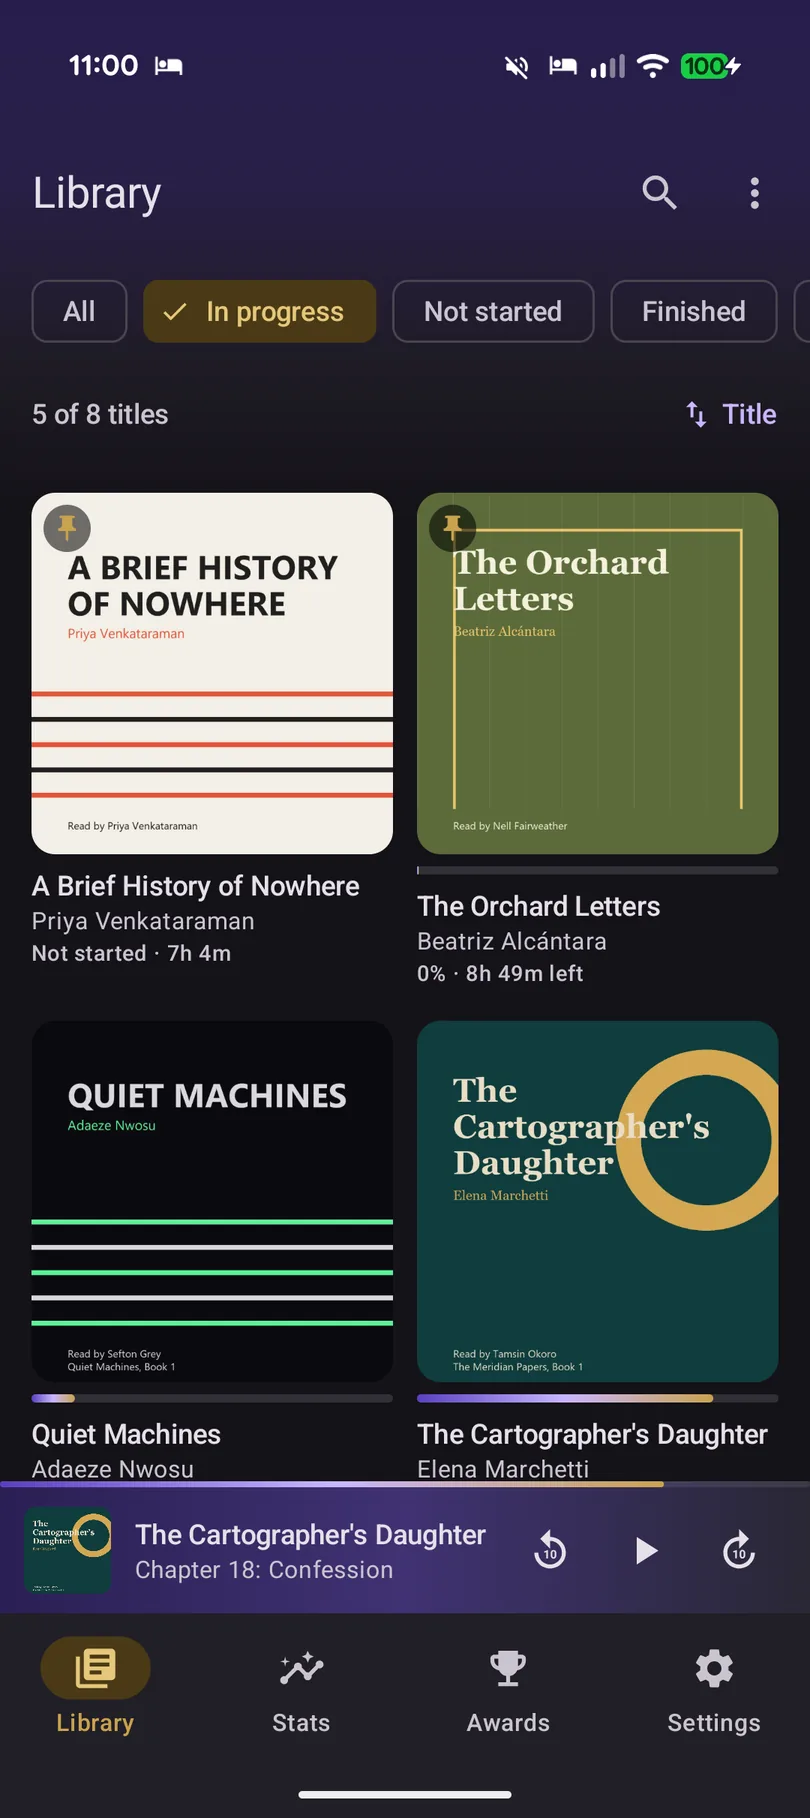
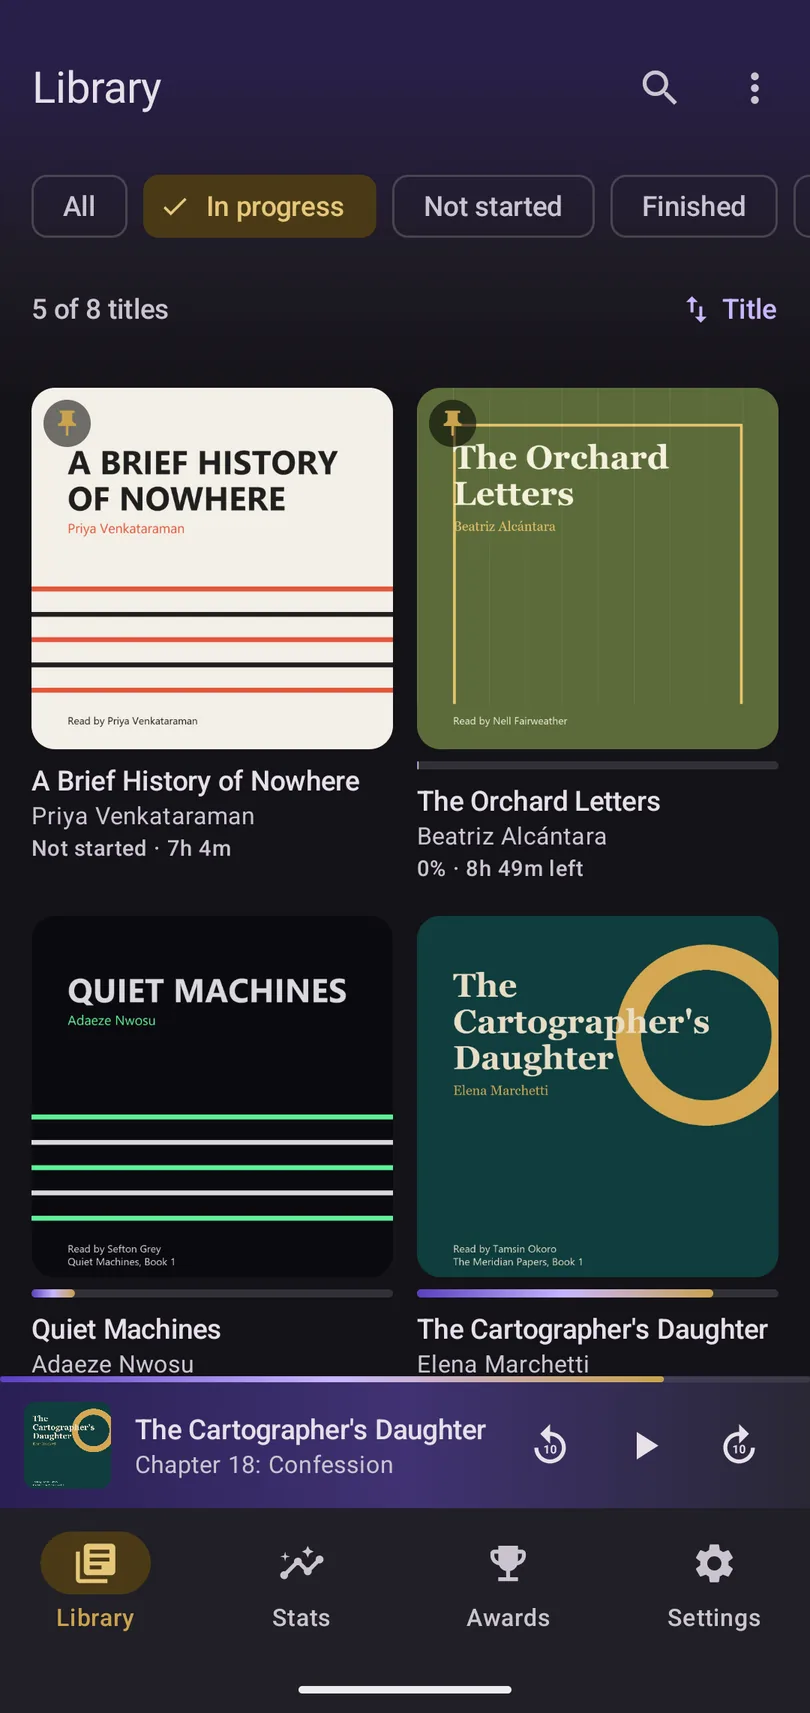
Crop the Android status bar off the screenshots

diff --git a/resources/views/home.blade.php b/resources/views/home.blade.php
@@ -16,7 +16,7 @@
         </div>
 
         <div class="phone">
-            <img src="{{ asset('img/screens/player.webp') }}" srcset="{{ asset('img/screens/player.webp') }} 1x, {{ asset('img/screens/player@2x.webp') }} 2x" width="540" height="1212" alt="Appollo playing The Cartographer's Daughter: chapter list, progress bar, 10 second skips, speed, sleep timer, bookmarks and transcript controls" fetchpriority="high">
+            <img src="{{ asset('img/screens/player.webp') }}" srcset="{{ asset('img/screens/player.webp') }} 1x, {{ asset('img/screens/player@2x.webp') }} 2x" width="540" height="1142" alt="Appollo playing The Cartographer's Daughter: chapter list, progress bar, 10 second skips, speed, sleep timer, bookmarks and transcript controls" fetchpriority="high">
         </div>
     </div>
 </section>
@@ -74,19 +74,19 @@
         </div>
         <div class="screens">
             <figure class="screen">
-                <img src="{{ asset('img/screens/library.webp') }}" srcset="{{ asset('img/screens/library.webp') }} 1x, {{ asset('img/screens/library@2x.webp') }} 2x" width="540" height="1212" alt="Library list with progress, time left and pinned books" loading="lazy">
+                <img src="{{ asset('img/screens/library.webp') }}" srcset="{{ asset('img/screens/library.webp') }} 1x, {{ asset('img/screens/library@2x.webp') }} 2x" width="540" height="1142" alt="Library list with progress, time left and pinned books" loading="lazy">
                 <figcaption>Library, with progress and time left at a glance</figcaption>
             </figure>
             <figure class="screen">
-                <img src="{{ asset('img/screens/grid.webp') }}" srcset="{{ asset('img/screens/grid.webp') }} 1x, {{ asset('img/screens/grid@2x.webp') }} 2x" width="540" height="1212" alt="Library in cover grid view filtered to books in progress" loading="lazy">
+                <img src="{{ asset('img/screens/grid.webp') }}" srcset="{{ asset('img/screens/grid.webp') }} 1x, {{ asset('img/screens/grid@2x.webp') }} 2x" width="540" height="1142" alt="Library in cover grid view filtered to books in progress" loading="lazy">
                 <figcaption>Cover grid, filtered to what you are reading</figcaption>
             </figure>
             <figure class="screen">
-                <img src="{{ asset('img/screens/stats.webp') }}" srcset="{{ asset('img/screens/stats.webp') }} 1x, {{ asset('img/screens/stats@2x.webp') }} 2x" width="540" height="1212" alt="Listening stats: today, streak, this week, all time and a 30-day chart" loading="lazy">
+                <img src="{{ asset('img/screens/stats.webp') }}" srcset="{{ asset('img/screens/stats.webp') }} 1x, {{ asset('img/screens/stats@2x.webp') }} 2x" width="540" height="1142" alt="Listening stats: today, streak, this week, all time and a 30-day chart" loading="lazy">
                 <figcaption>Stats with a daily goal, streak and 30-day chart</figcaption>
             </figure>
             <figure class="screen">
-                <img src="{{ asset('img/screens/player.webp') }}" srcset="{{ asset('img/screens/player.webp') }} 1x, {{ asset('img/screens/player@2x.webp') }} 2x" width="540" height="1212" alt="Now playing screen with chapter, progress and controls" loading="lazy">
+                <img src="{{ asset('img/screens/player.webp') }}" srcset="{{ asset('img/screens/player.webp') }} 1x, {{ asset('img/screens/player@2x.webp') }} 2x" width="540" height="1142" alt="Now playing screen with chapter, progress and controls" loading="lazy">
                 <figcaption>Player with chapters, timer, bookmarks and transcript</figcaption>
             </figure>
         </div>
